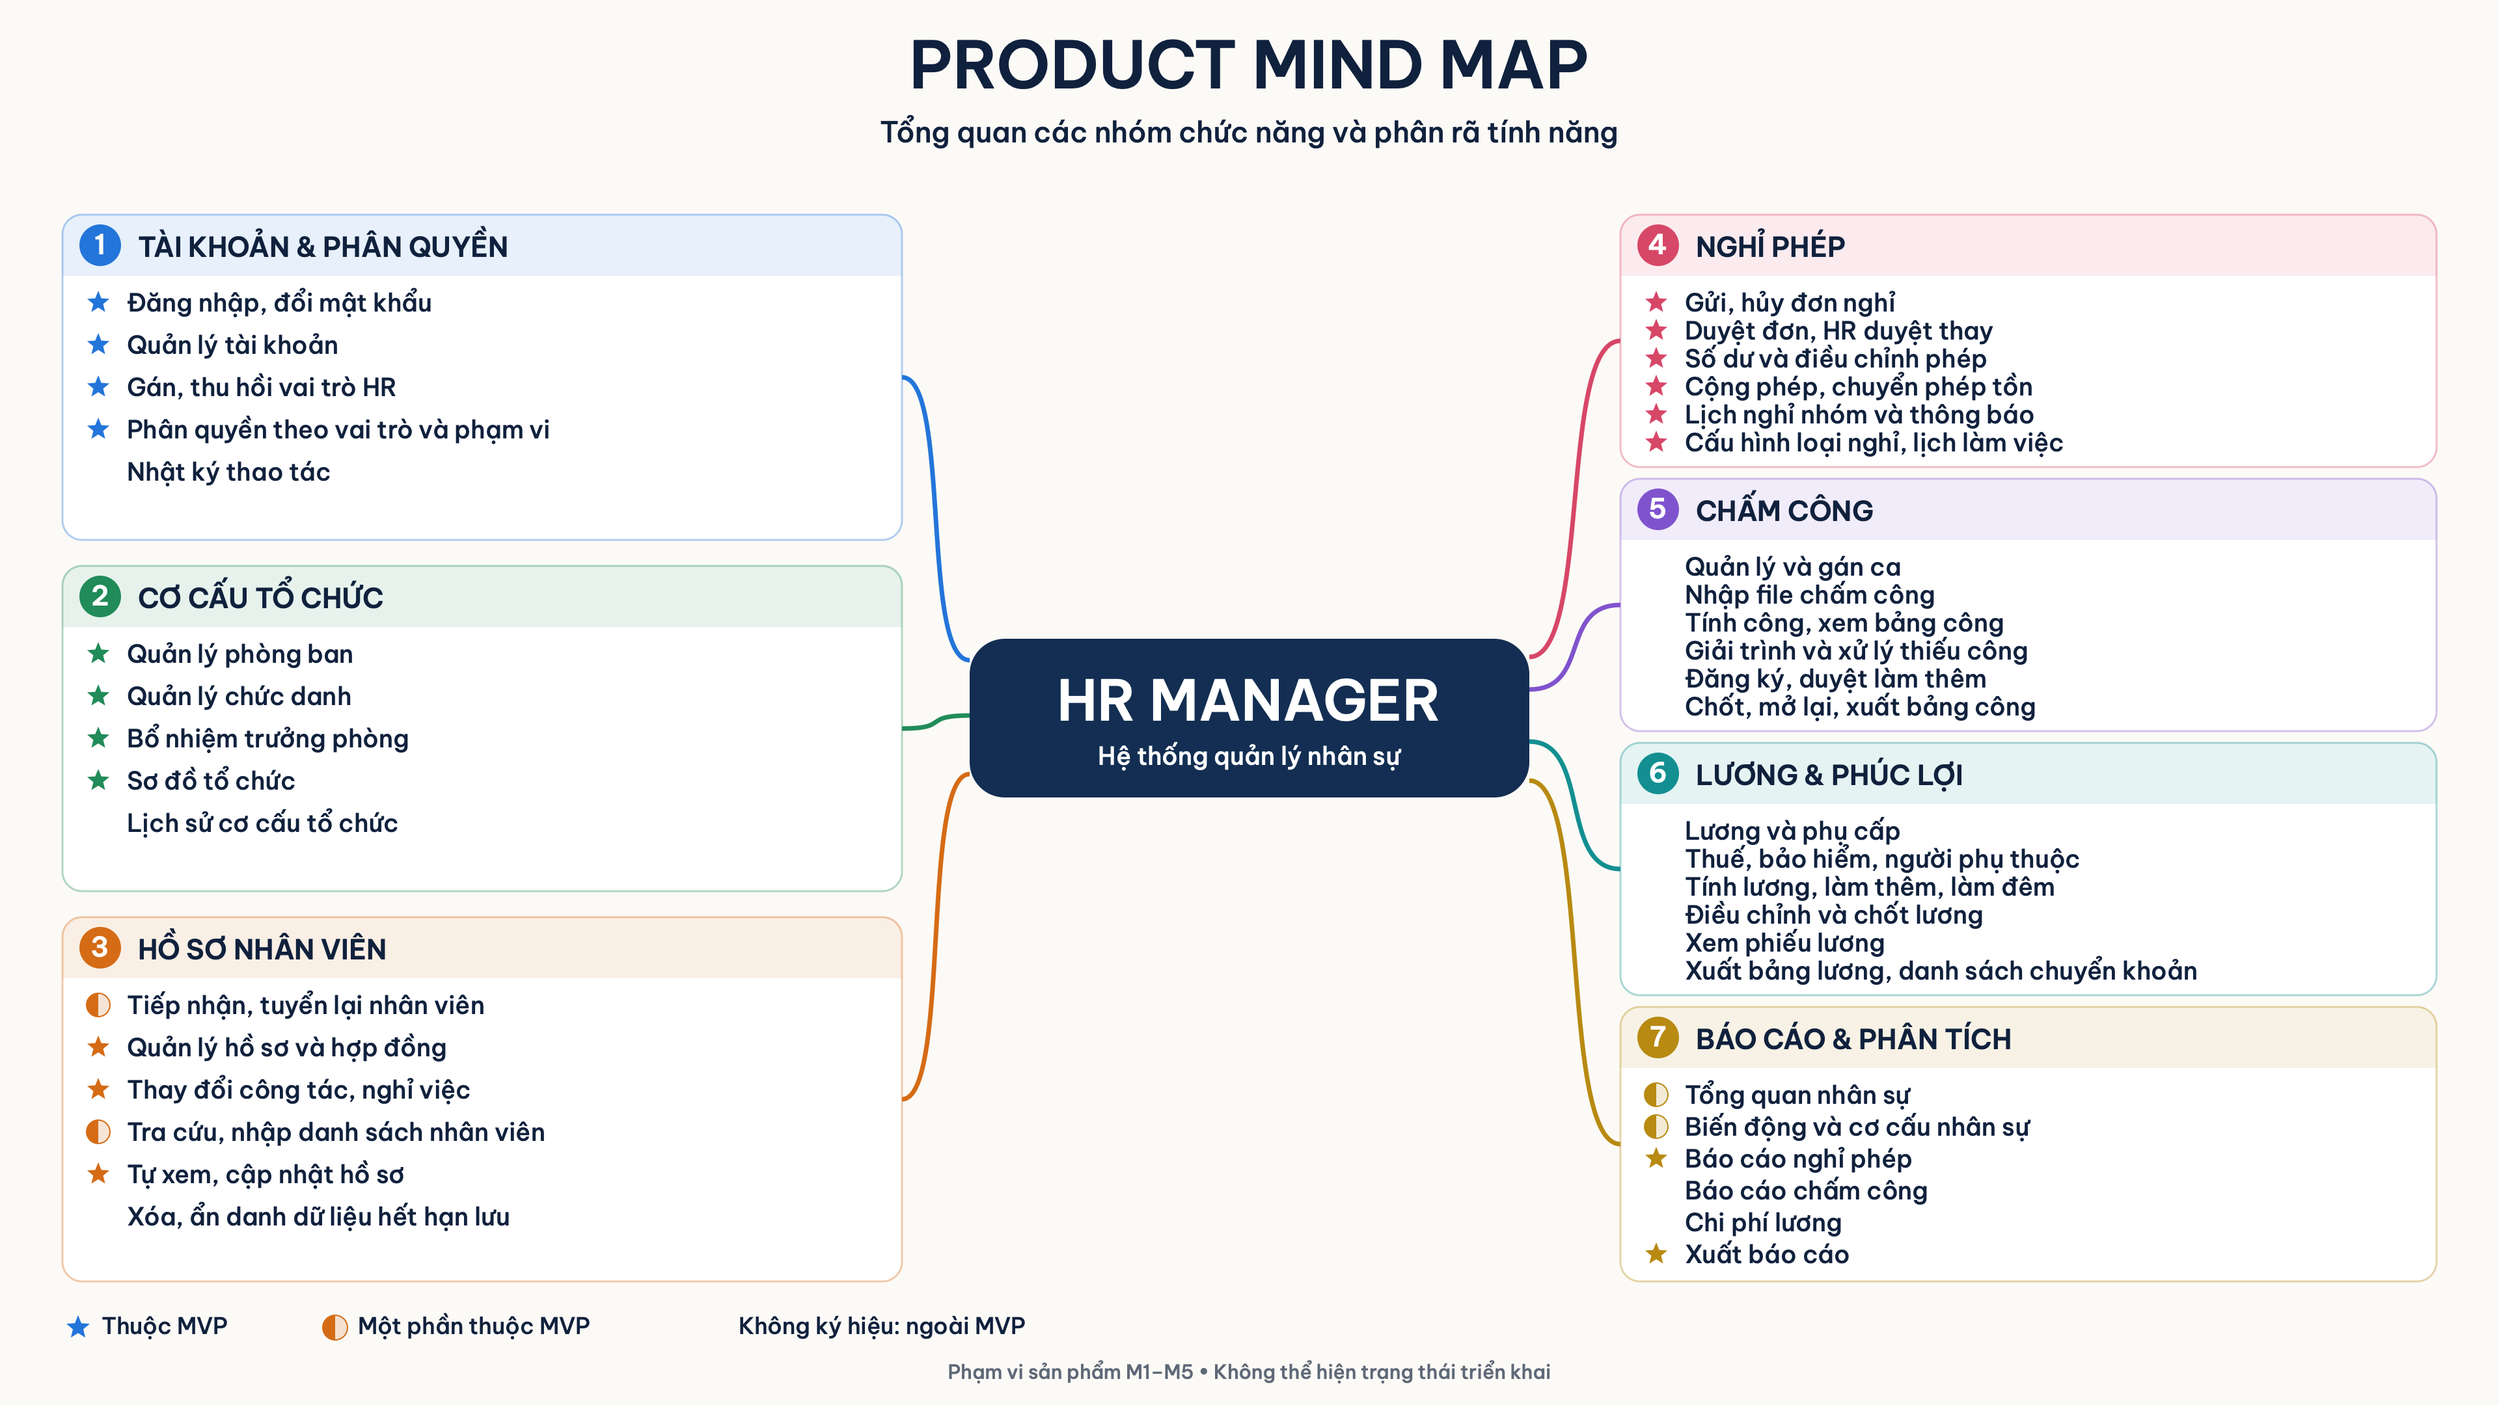
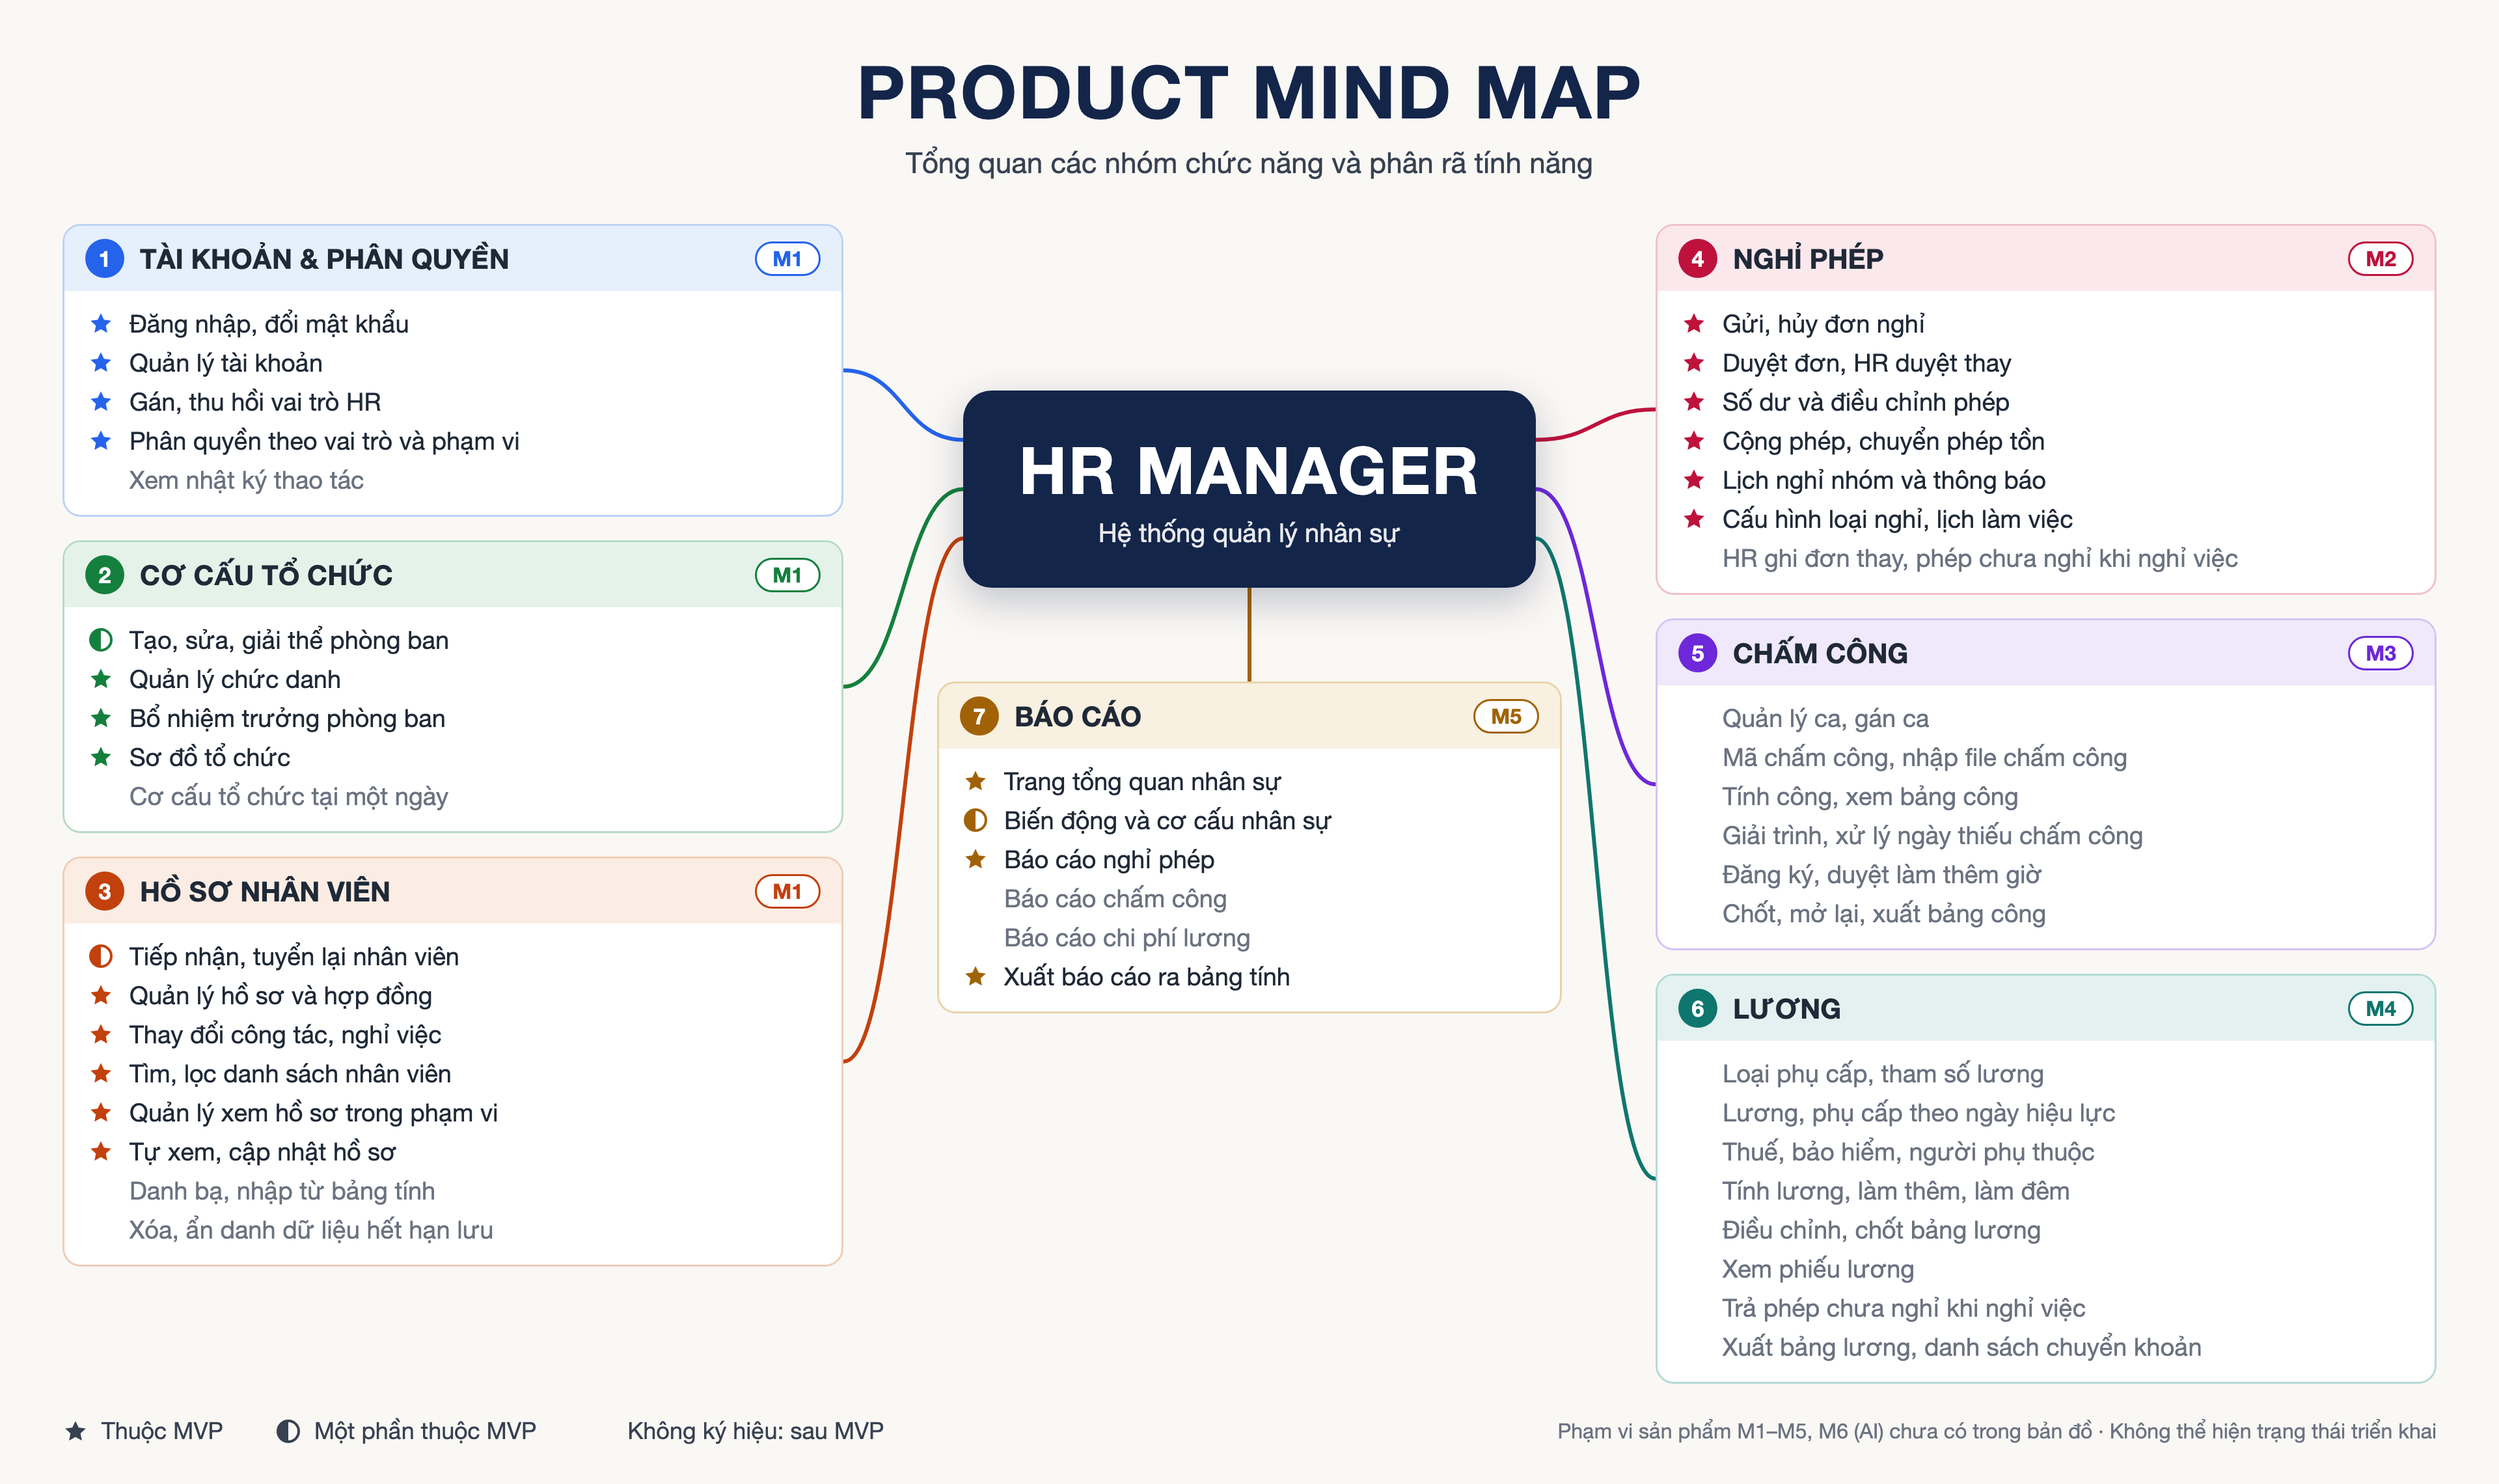
docs: cập nhật README theo phạm vi M1–M5 và vẽ lại mind map (#36)

diff --git a/README.md b/README.md
@@ -22,11 +22,18 @@ phép.
 
 ### Solution
 
+Các ý dưới đây có trong MVP, trừ hai ý ghi "Sau MVP".
+
 - Nhân viên tự gửi đơn nghỉ và xem số ngày phép còn lại, kể cả trên điện thoại.
 - Quản lý duyệt đơn ngay trên hệ thống và thấy lịch nghỉ của nhóm.
 - Hệ thống tự cộng phép hằng tháng, chuyển phép tồn, và tính số ngày nghỉ theo lịch làm việc và ngày lễ.
 - HR quản lý hồ sơ, hợp đồng và cơ cấu tổ chức ở một nơi, có lịch sử theo ngày hiệu lực.
+- Mỗi người chỉ thấy dữ liệu theo vai trò của mình; Quản lý chỉ thấy nhân viên của các phòng ban mình phụ trách.
 - Quản lý và HR xem báo cáo nhân sự, nghỉ phép và xuất ra bảng tính.
+- Sau MVP, chấm công: HR nhập file từ máy chấm công; hệ thống tính công, đi muộn, về sớm, làm thêm giờ, rồi HR chốt
+  bảng công tháng. Nhân viên xem bảng công, gửi giải trình và đăng ký làm thêm trên hệ thống.
+- Sau MVP, lương: hệ thống tính lương từ bảng công đã chốt, gồm phụ cấp, làm thêm, BHXH và thuế TNCN; nhân viên xem
+  phiếu lương. Báo cáo có thêm chấm công và chi phí lương.
 - Mọi tỷ lệ và mức theo luật lao động, BHXH, thuế là tham số có ngày hiệu lực; HR cập nhật khi luật đổi mà không cần
   sửa code.
 
@@ -34,9 +41,9 @@ phép.
 
 | Vai trò | Ai | Dùng hệ thống để |
 |---|---|---|
-| Nhân viên | Mọi người có tài khoản | Xem và sửa thông tin liên hệ của mình, gửi và hủy đơn nghỉ, xem số dư phép |
-| Quản lý | Trưởng phòng ban, tự có khi được bổ nhiệm; giám đốc là trưởng phòng ban gốc | Duyệt đơn của nhóm, xem hồ sơ và lịch nghỉ trong phạm vi, xem báo cáo |
-| HR | Người làm nhân sự, được gán vai trò | Quản lý hồ sơ, hợp đồng, cơ cấu, tài khoản, loại nghỉ, lịch làm việc; duyệt thay |
+| Nhân viên | Mọi người có tài khoản | Xem và sửa thông tin liên hệ của mình, gửi và hủy đơn nghỉ, xem số dư phép. Sau MVP: xem bảng công, gửi giải trình, đăng ký làm thêm, xem phiếu lương |
+| Quản lý | Trưởng phòng ban, tự có khi được bổ nhiệm; giám đốc là trưởng phòng ban gốc | Duyệt đơn của nhóm, xem hồ sơ và lịch nghỉ trong phạm vi, xem báo cáo. Sau MVP: duyệt giải trình và làm thêm, xem bảng công của nhóm, xem chi phí lương ở mức tổng hợp |
+| HR | Người làm nhân sự, được gán vai trò | Quản lý hồ sơ, hợp đồng, cơ cấu, tài khoản, loại nghỉ, lịch làm việc; duyệt thay. Sau MVP: nhập chấm công, chốt bảng công, tính và chốt bảng lương |
 
 Quyền chi tiết của từng thao tác nằm ở [permission matrix](docs/analysis/requirements.md#permission-matrix).
 
@@ -44,7 +51,8 @@ Quyền chi tiết của từng thao tác nằm ở [permission matrix](docs/ana
 
 ![Product mind map](docs/assets/mind-map.png)
 
-Sáu nhóm chức năng thuộc phạm vi M1 tới M5. Ngôi sao là thuộc MVP, nửa vòng tròn là một phần thuộc MVP.
+Bảy nhóm chức năng thuộc phạm vi M1 tới M5; nhãn ở góc mỗi nhóm là milestone. Ngôi sao là thuộc MVP, nửa vòng tròn là
+một phần thuộc MVP, không ký hiệu là làm sau MVP.
 
 ## Tech Stack
 
@@ -101,7 +109,7 @@ flowchart LR
 |---|---|
 | web | Giao diện; không giữ luật nghiệp vụ. Build thành file tĩnh, do `api` phục vụ cùng domain |
 | api | Xác thực, kiểm quyền, giữ luật nghiệp vụ, đọc ghi DB, xuất bảng tính |
-| jobs | Việc theo lịch: cộng phép tháng, chuyển và hủy phép tồn, khóa tài khoản sau ngày làm việc cuối |
+| jobs | Việc theo lịch: cộng phép tháng, chuyển và hủy phép tồn, khóa tài khoản sau ngày làm việc cuối; từ M3 thêm mở kỳ công |
 | db | Toàn bộ dữ liệu, nhật ký thao tác, refresh token, thông báo |
 
 Module backend chỉ phụ thuộc theo một chiều. Module bên trái được dùng module bên phải; chiều ngược lại đi qua interface
